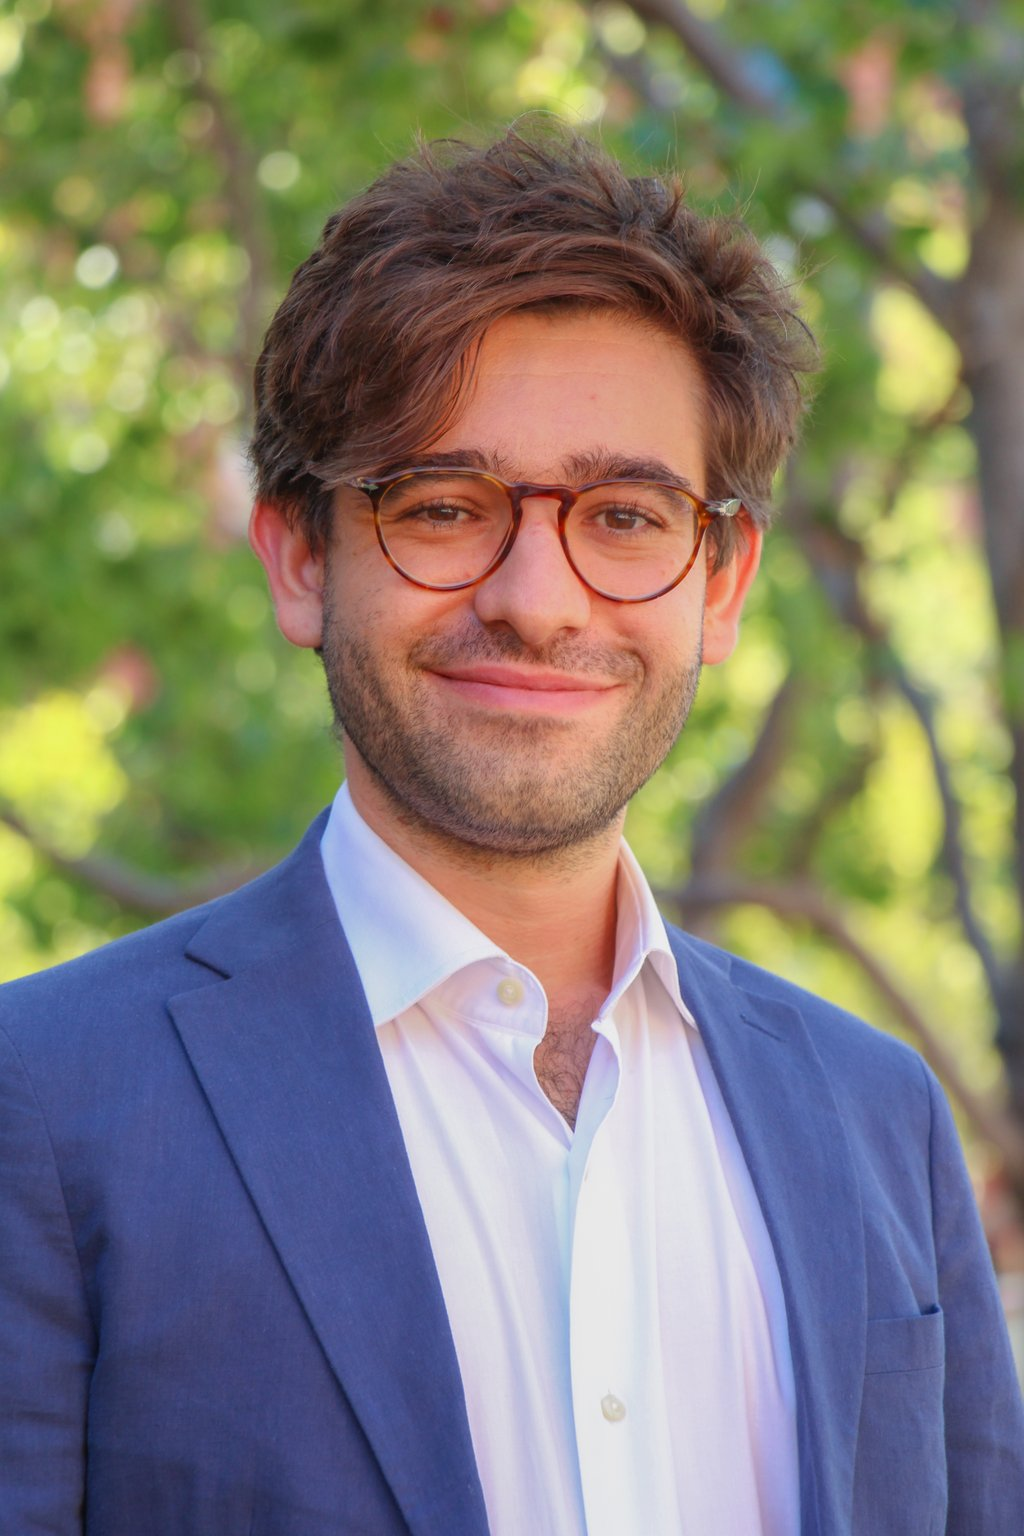
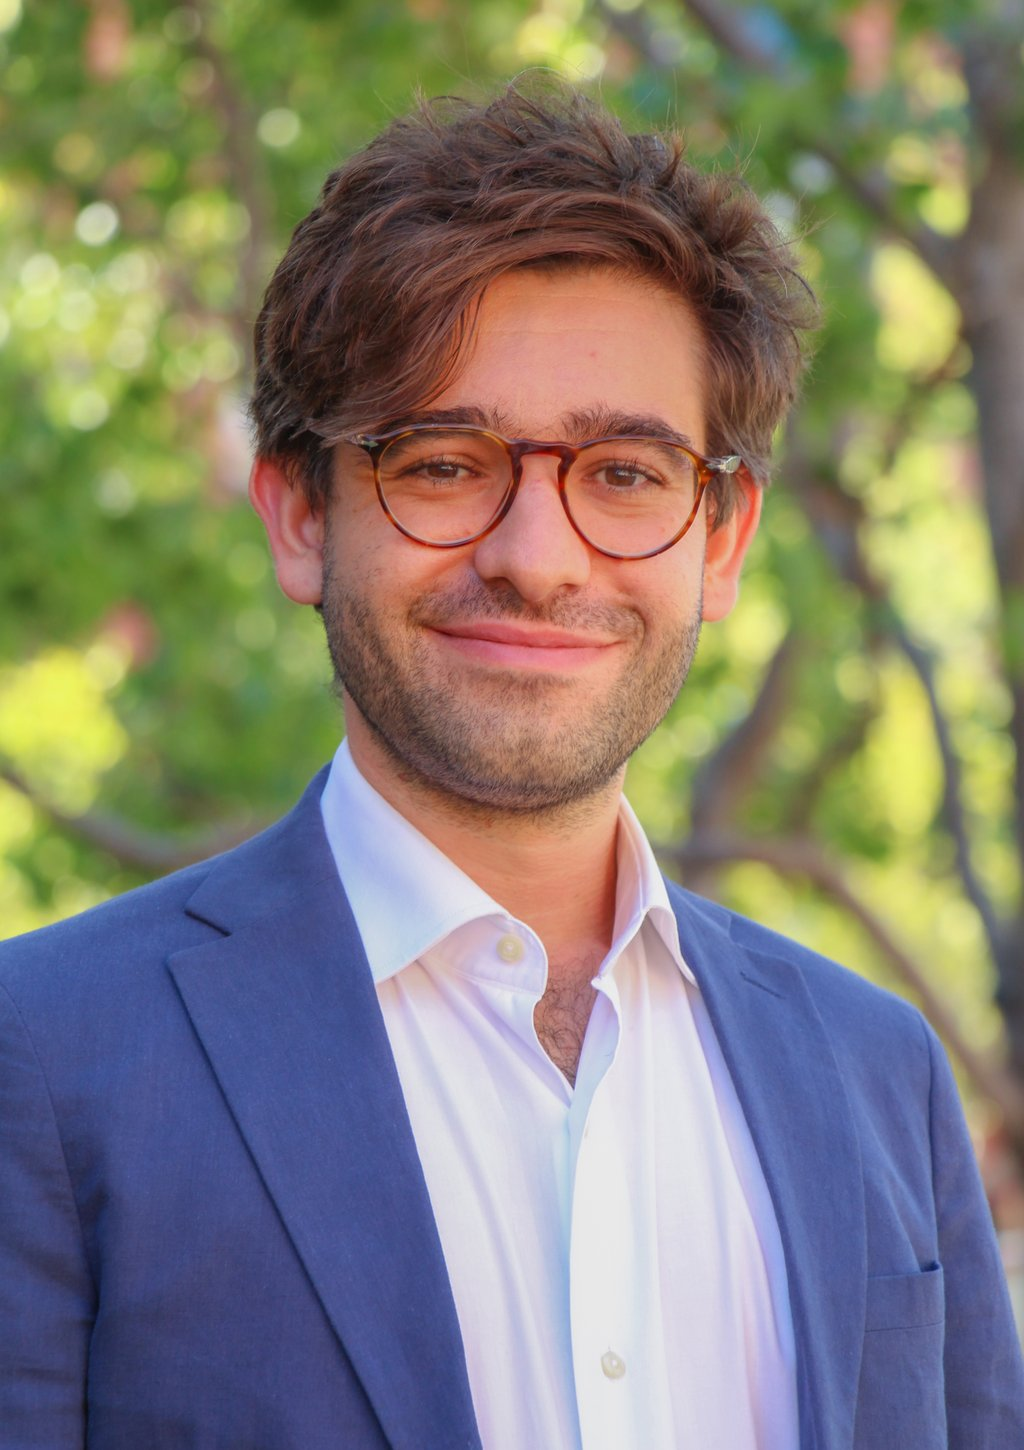
Profile picture: old proportions (1024x1450), shown at 225 px
The headshot is re-cropped to the previous photo's 1024x1450 shape (full
width, a strip trimmed top and bottom; framing otherwise unchanged), and
the desktop sidebar shows it at 225 px instead of 175 px. The mobile rule
(200 px, centred) is unchanged.

diff --git a/assets/css/main.scss b/assets/css/main.scss
@@ -31,8 +31,8 @@
 }
 
 .author__avatar img {
-  max-width: 175px !important;
-  width: 175px !important;
+  max-width: 225px !important;
+  width: 225px !important;
   height: auto !important;
   border-radius: 0 !important;
   padding: 0 !important;
